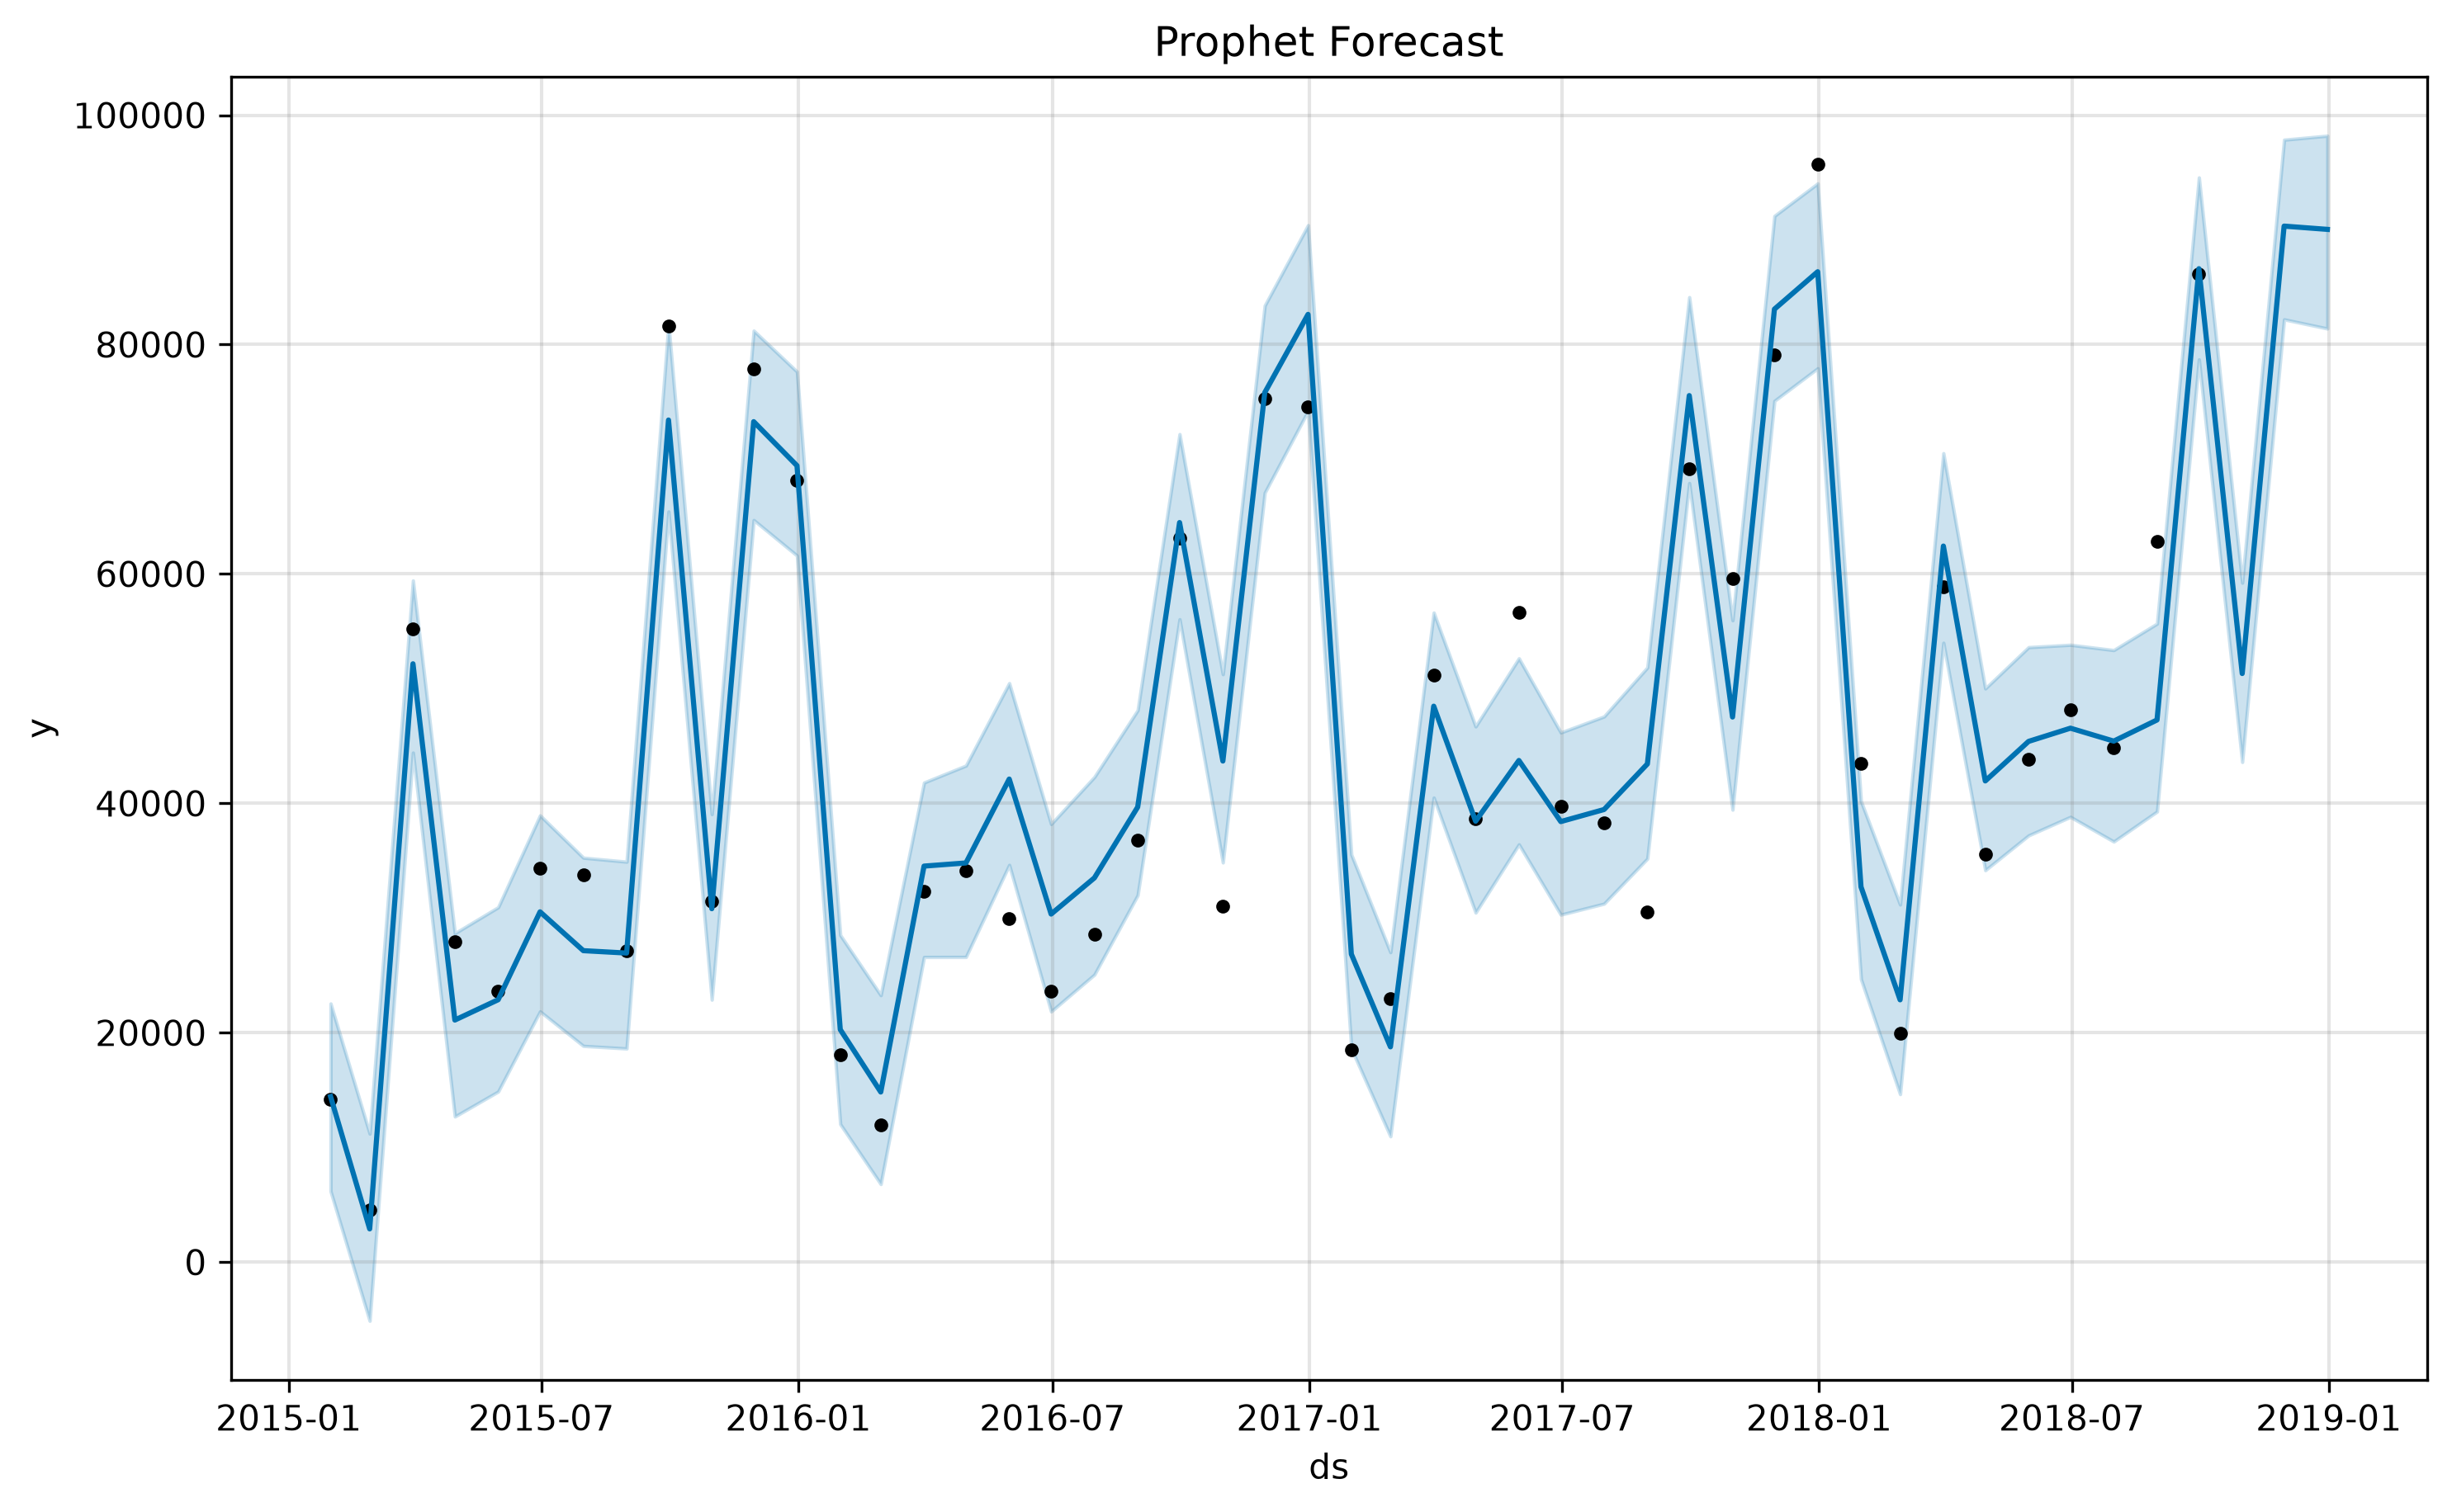
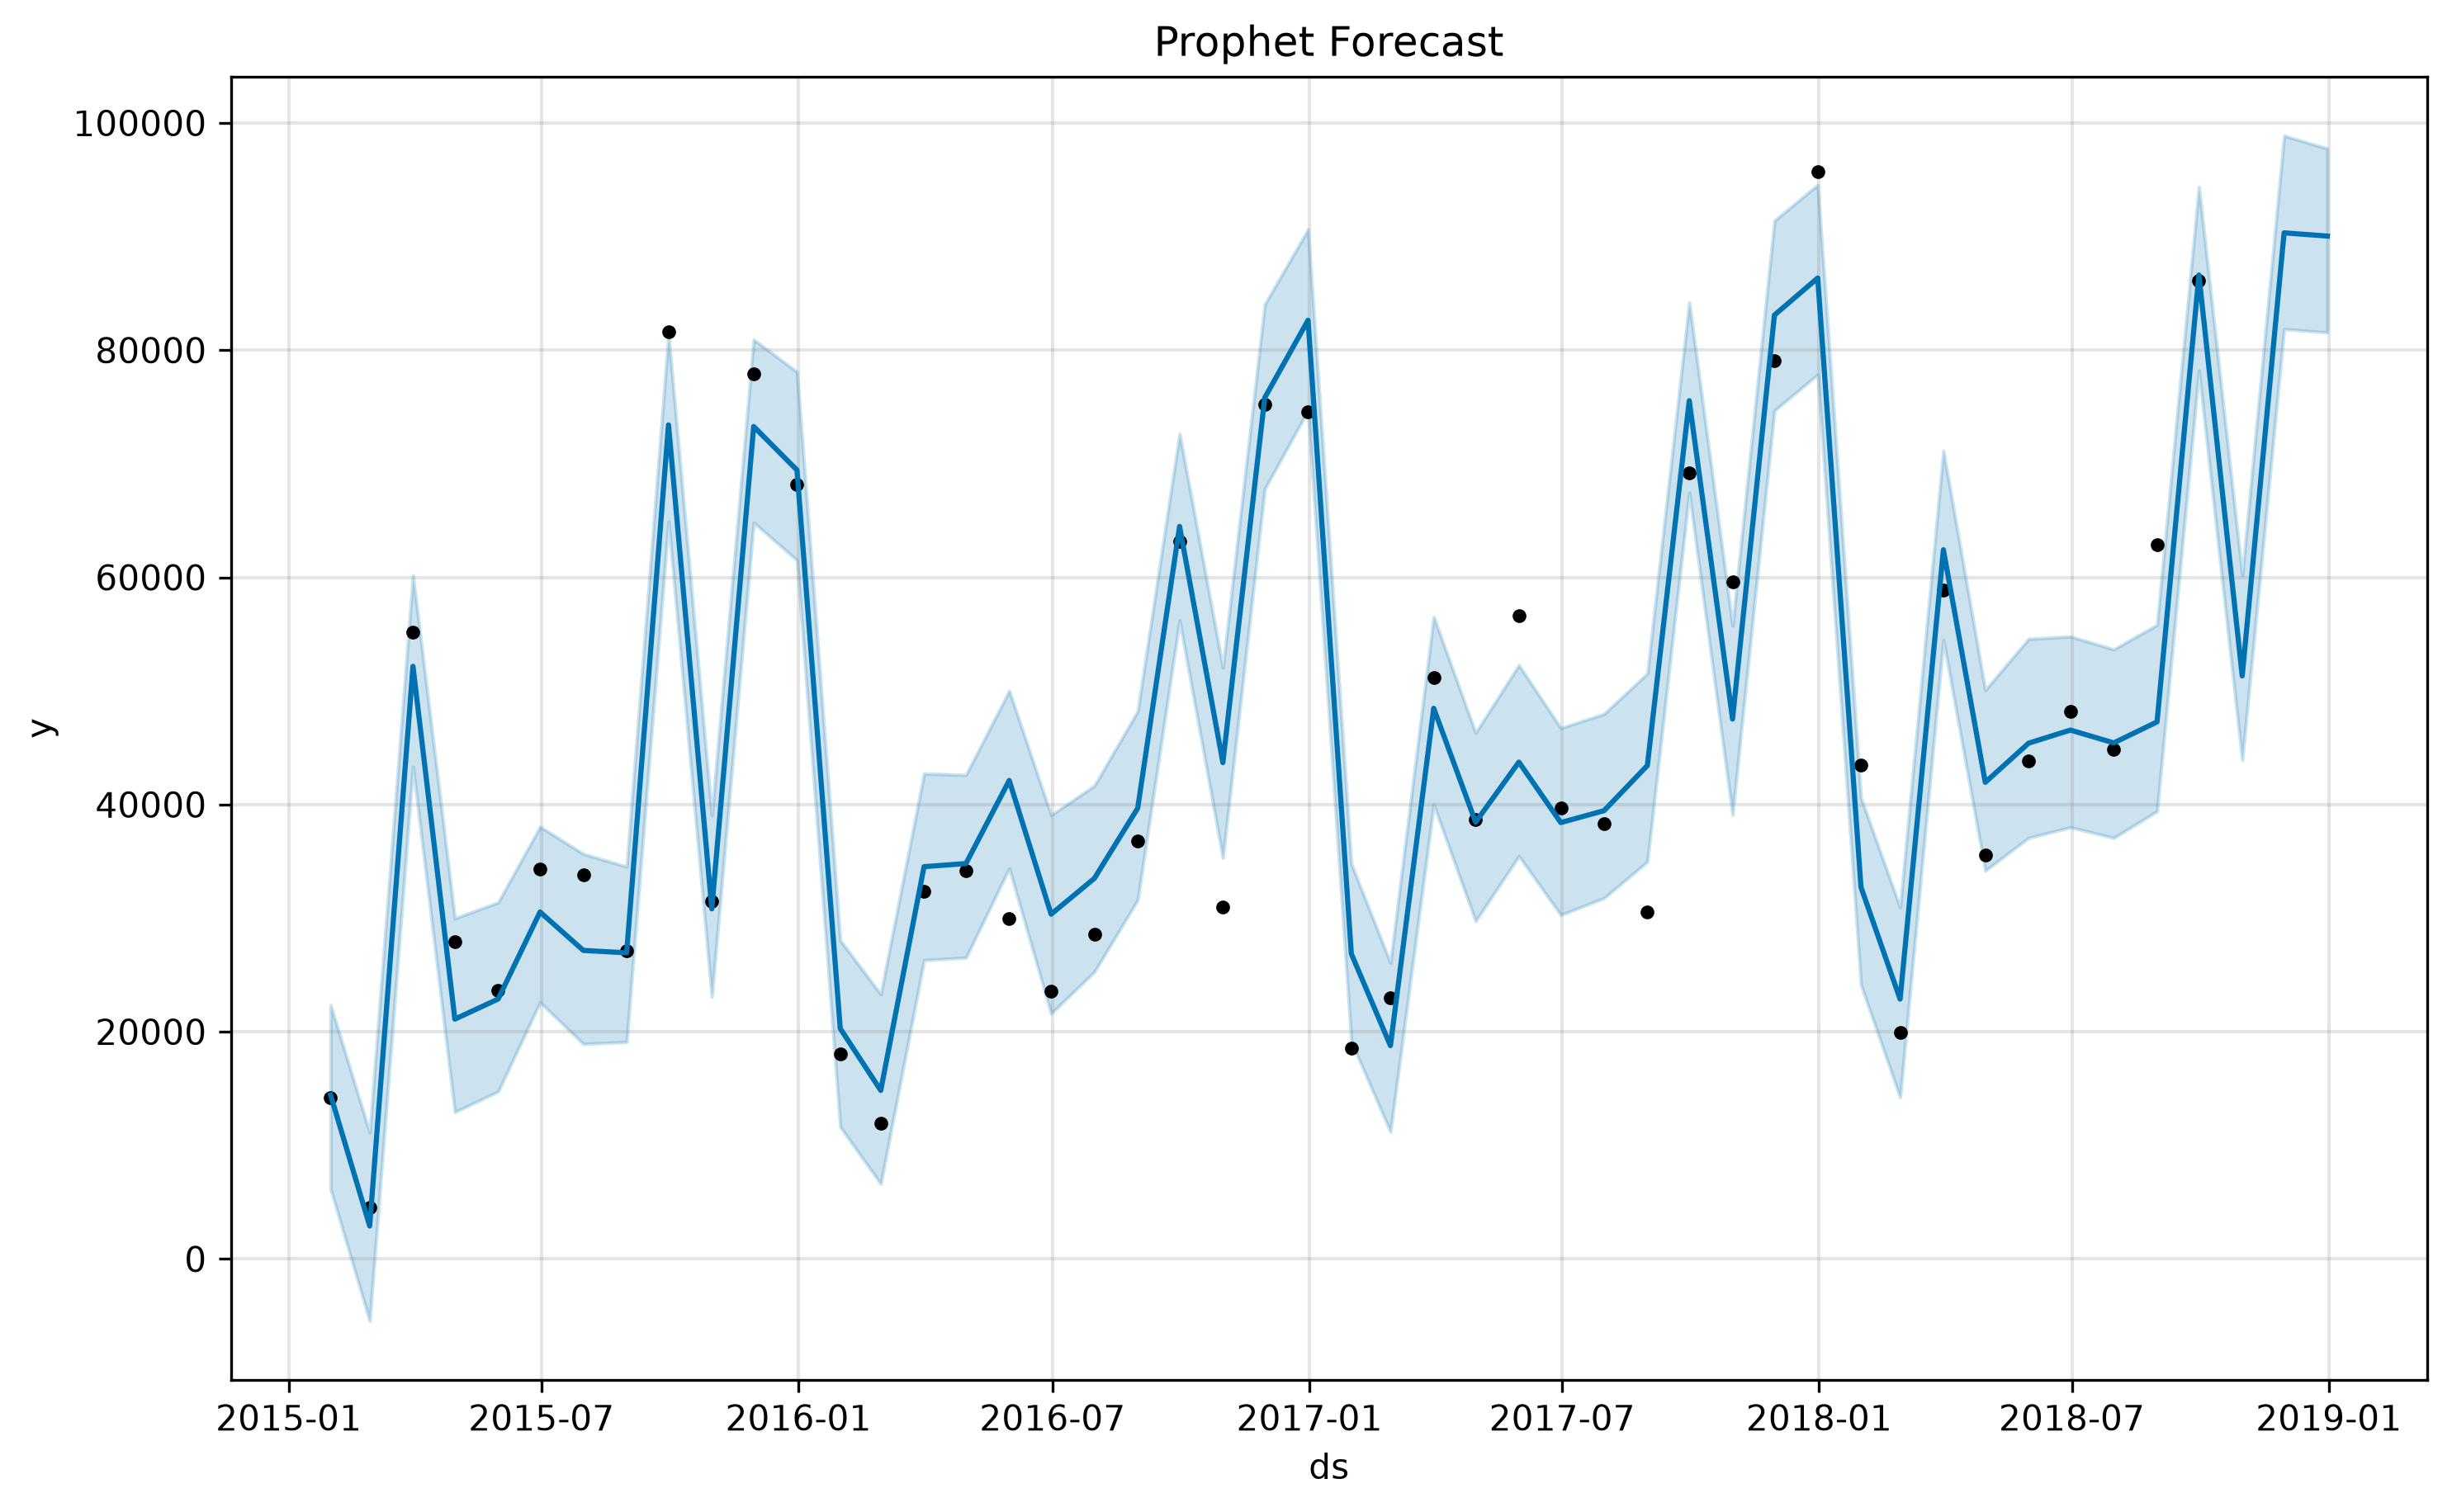
Fixed Predictions

diff --git a/pages/2_Forecast_Explorer.py b/pages/2_Forecast_Explorer.py
@@ -1,7 +1,7 @@
 import streamlit as st
 import pandas as pd
 import numpy as np
-import joblib
+from xgboost import XGBRegressor
 import plotly.graph_objects as go
 import os
 
@@ -58,21 +58,6 @@ st.markdown('<div class="main-title">🔮 Demand Forecast Explorer</div>', unsaf
 st.markdown("Use the pre-trained XGBoost model to generate monthly sales forecasts by category or geographic region.", unsafe_allow_html=True)
 st.markdown("---")
 
-# Helper function to load model and dataset
[email redacted]_resource
-def load_model_assets():
-    model = None
-    if os.path.exists("xgboost_sales_model.pkl"):
-        model = joblib.load("xgboost_sales_model.pkl")
-    else:
-        st.error("Error: 'xgboost_sales_model.pkl' not found. Please place the model file in the root directory.")
-    
-    features_df = None
-    if os.path.exists("xgboost_features.csv"):
-        features_df = pd.read_csv("xgboost_features.csv")
-    
-    return model, features_df
-
 @st.cache_data
 def load_sales_data():
     if os.path.exists("cleaned_sales.csv"):
@@ -81,11 +66,10 @@ def load_sales_data():
         return df
     return pd.DataFrame()
 
-xgb_model, xgb_features = load_model_assets()
 sales_df = load_sales_data()
 
-if xgb_model is None or sales_df.empty:
-    st.warning("⚠️ Waiting for forecasting model and sales database files to be available.")
+if sales_df.empty:
+    st.warning("⚠️ Waiting for sales database files to be available.")
 else:
     # Sidebar control panel
     with st.sidebar:
@@ -129,6 +113,27 @@ else:
         
     monthly_series = monthly_series.sort_index()
     
+    # 1.5 Train dynamic XGBoost model for the selected segment
+    # Prepare lag features exactly as used in Task 3
+    train_df = monthly_series.to_frame()
+    train_df.columns = ["Sales"]
+    train_df["Lag1"] = train_df["Sales"].shift(1)
+    train_df["Lag2"] = train_df["Sales"].shift(2)
+    train_df["Lag3"] = train_df["Sales"].shift(3)
+    train_df["RollingMean"] = train_df["Sales"].rolling(3).mean()
+    train_df["Month"] = train_df.index.month
+    train_df["Quarter"] = train_df.index.quarter
+    train_df["Season"] = (train_df.index.month % 12 + 3) // 3
+    train_df = train_df.dropna()
+    
+    features_list = ['Lag1', 'Lag2', 'Lag3', 'RollingMean', 'Month', 'Quarter', 'Season']
+    X_train = train_df[features_list]
+    y_train = train_df["Sales"]
+    
+    # Train the regressor dynamically
+    xgb_model = XGBRegressor(random_state=42)
+    xgb_model.fit(X_train, y_train)
+    
     # 2. Perform Autoregressive Multi-step forecasting
     # We need the last 3 months of actual sales to compute initial lags
     last_date = monthly_series.index[-1]
@@ -171,10 +176,8 @@ else:
             'Season': season_val
         }])
         
-        # Predict using pre-trained model
-        pred_sales = xgb_model.predict(feature_vector)[0]
-        # Avoid negative sales forecasts
-        pred_sales = max(0.0, float(pred_sales))
+        # Predict using dynamically trained model
+        pred_sales = float(xgb_model.predict(feature_vector)[0])
         
         predictions.append(pred_sales)
         